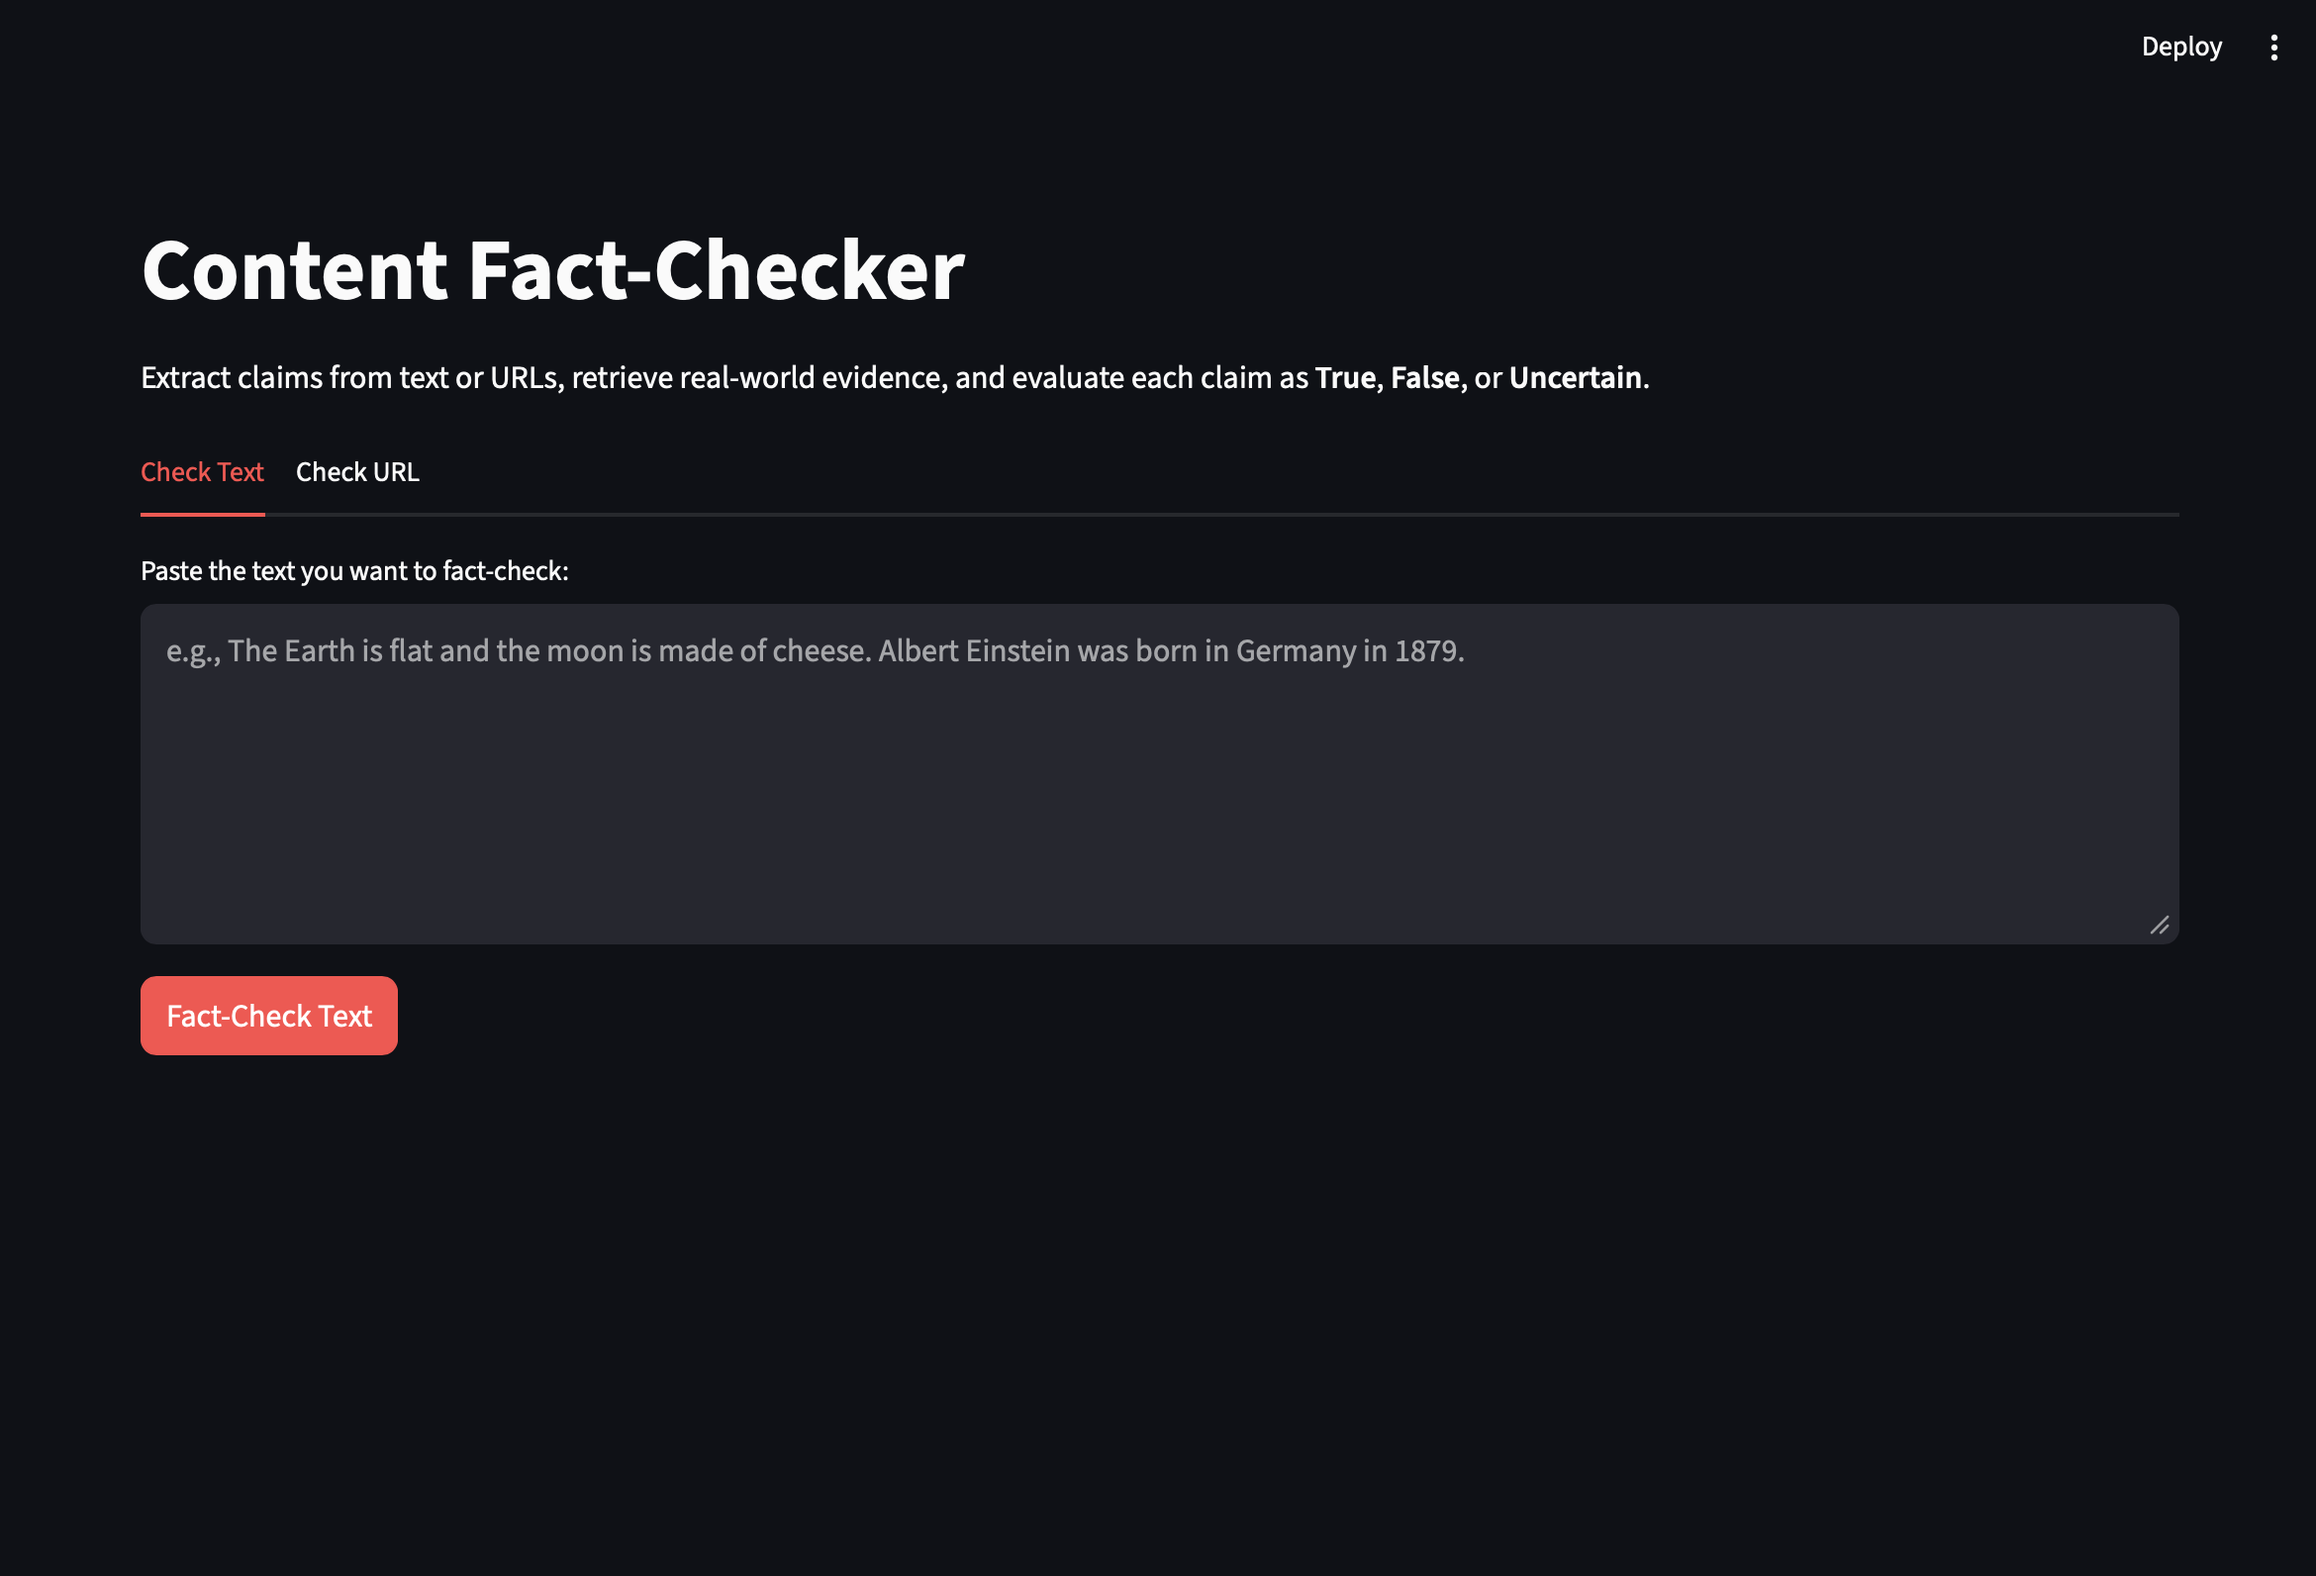
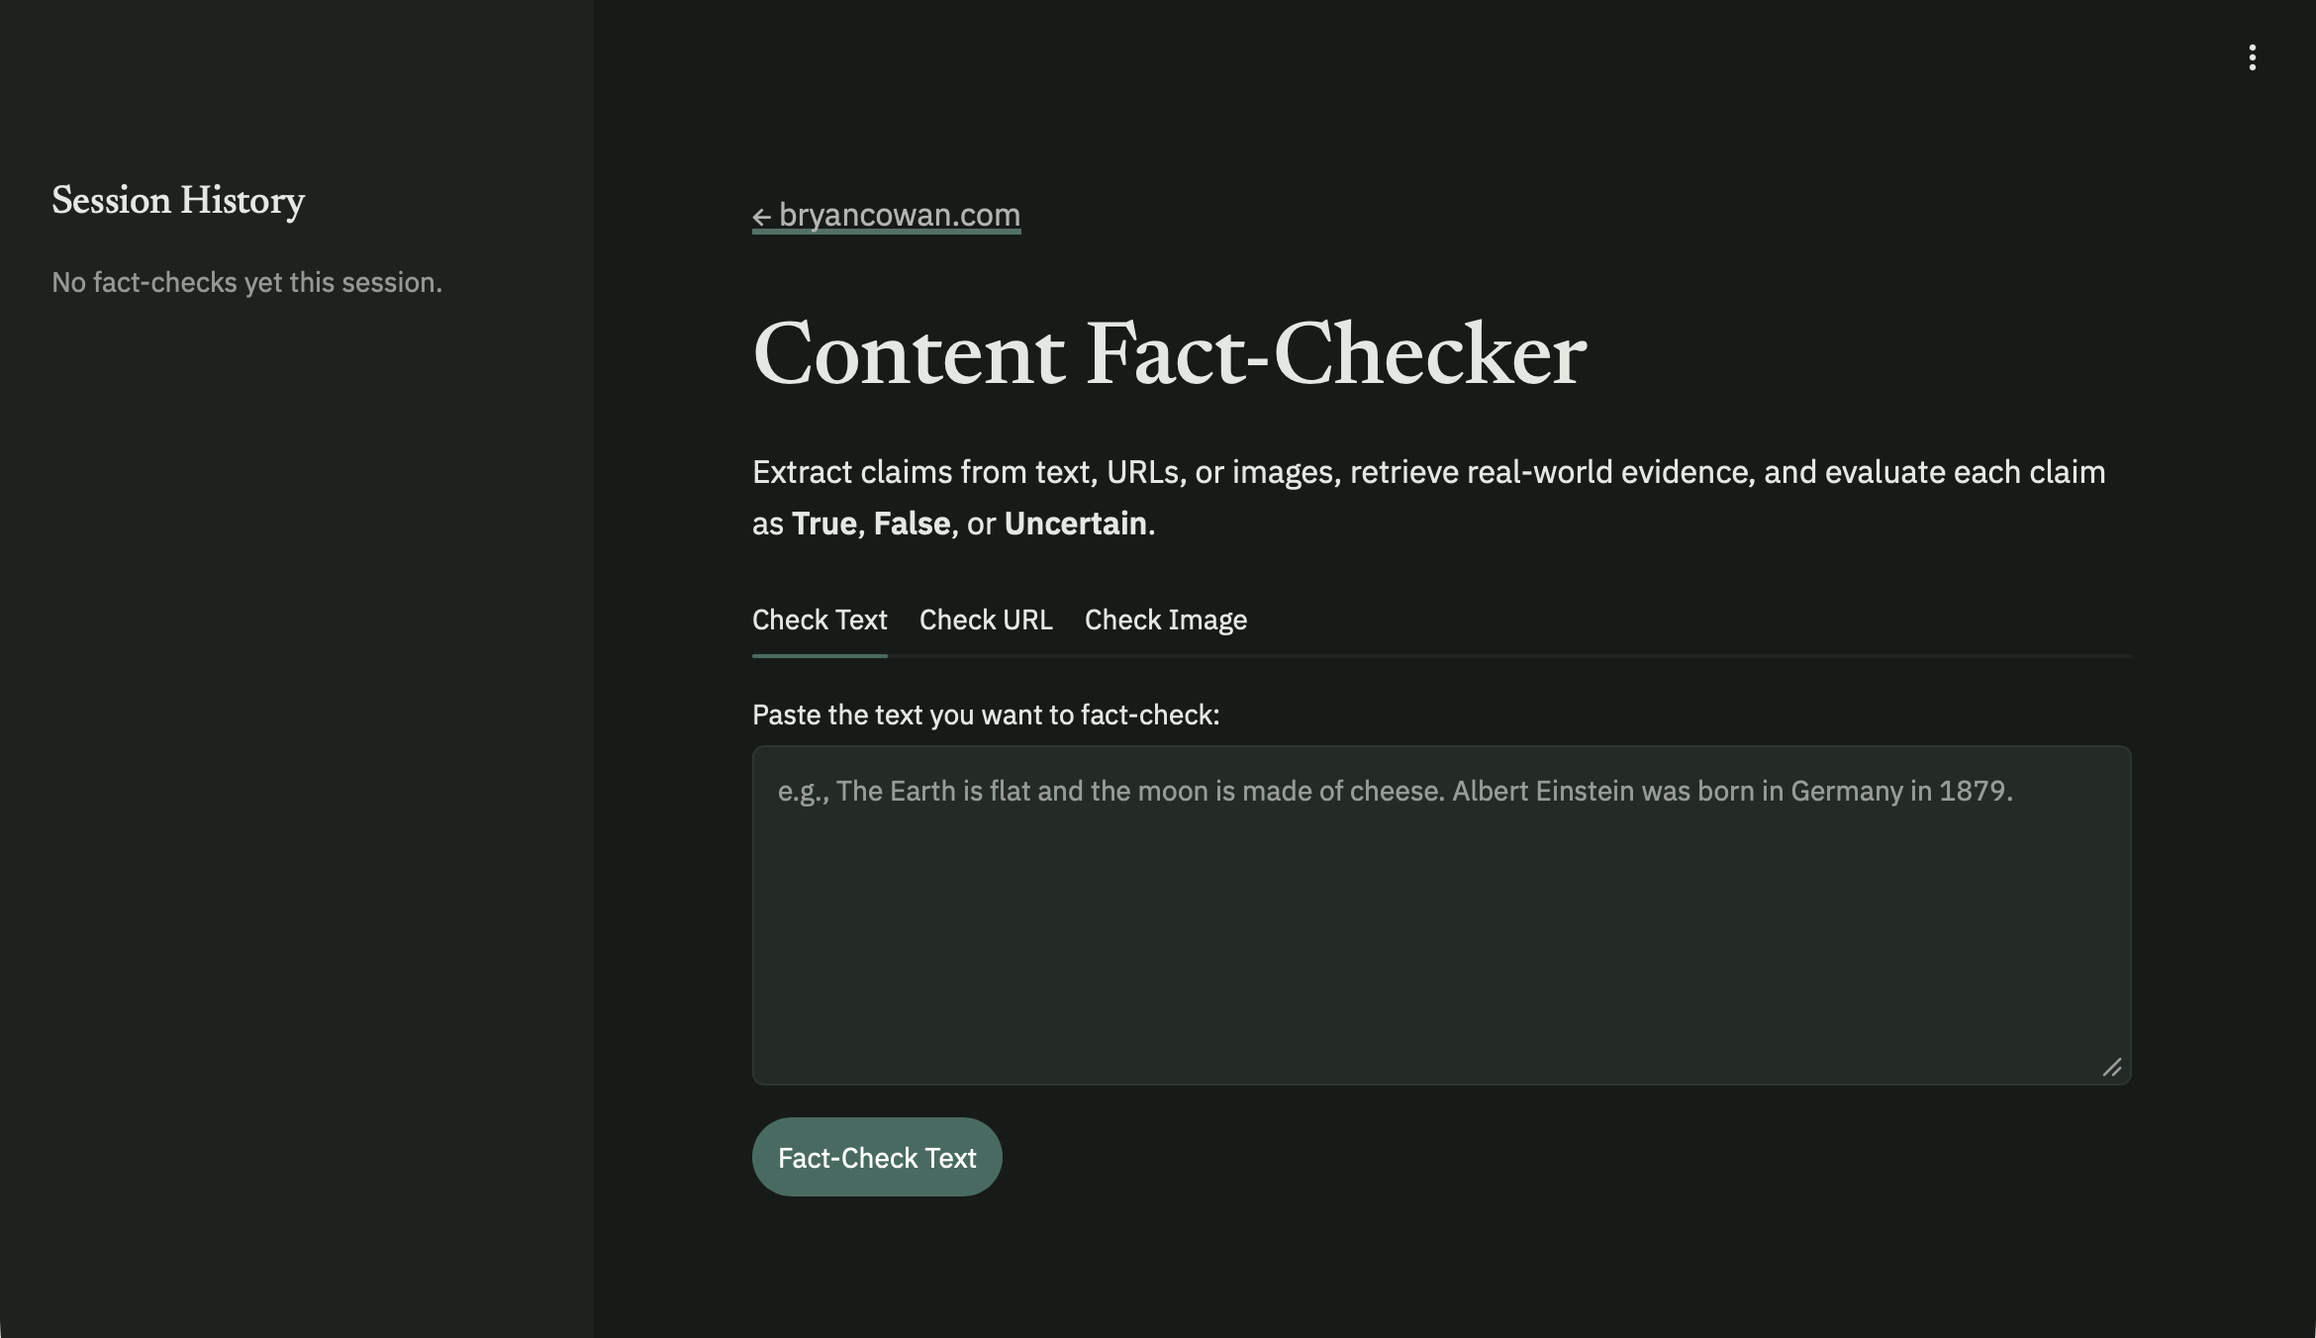
Refresh README screenshots and add the missing Check Image one
The site's palette and typography changed since the original screenshots
were taken. Recaptured the four existing ones from the live site at the
same proportions and with the same example article, and added a screenshot
for the Check Image tab, whose caption previously had no image.

diff --git a/README.md b/README.md
@@ -24,6 +24,8 @@ Based on the [OpenAI Cookbook: Build Your Own Content Fact-Checker](https://cook
 
 **Check Image tab** — upload a screenshot, chart, or infographic to analyze:
 
+![Check Image](assets/web-check-image.png)
+
 **Progress** — each claim is checked in real time:
 
 ![Checking in progress](assets/web-check-url-progress.png)
